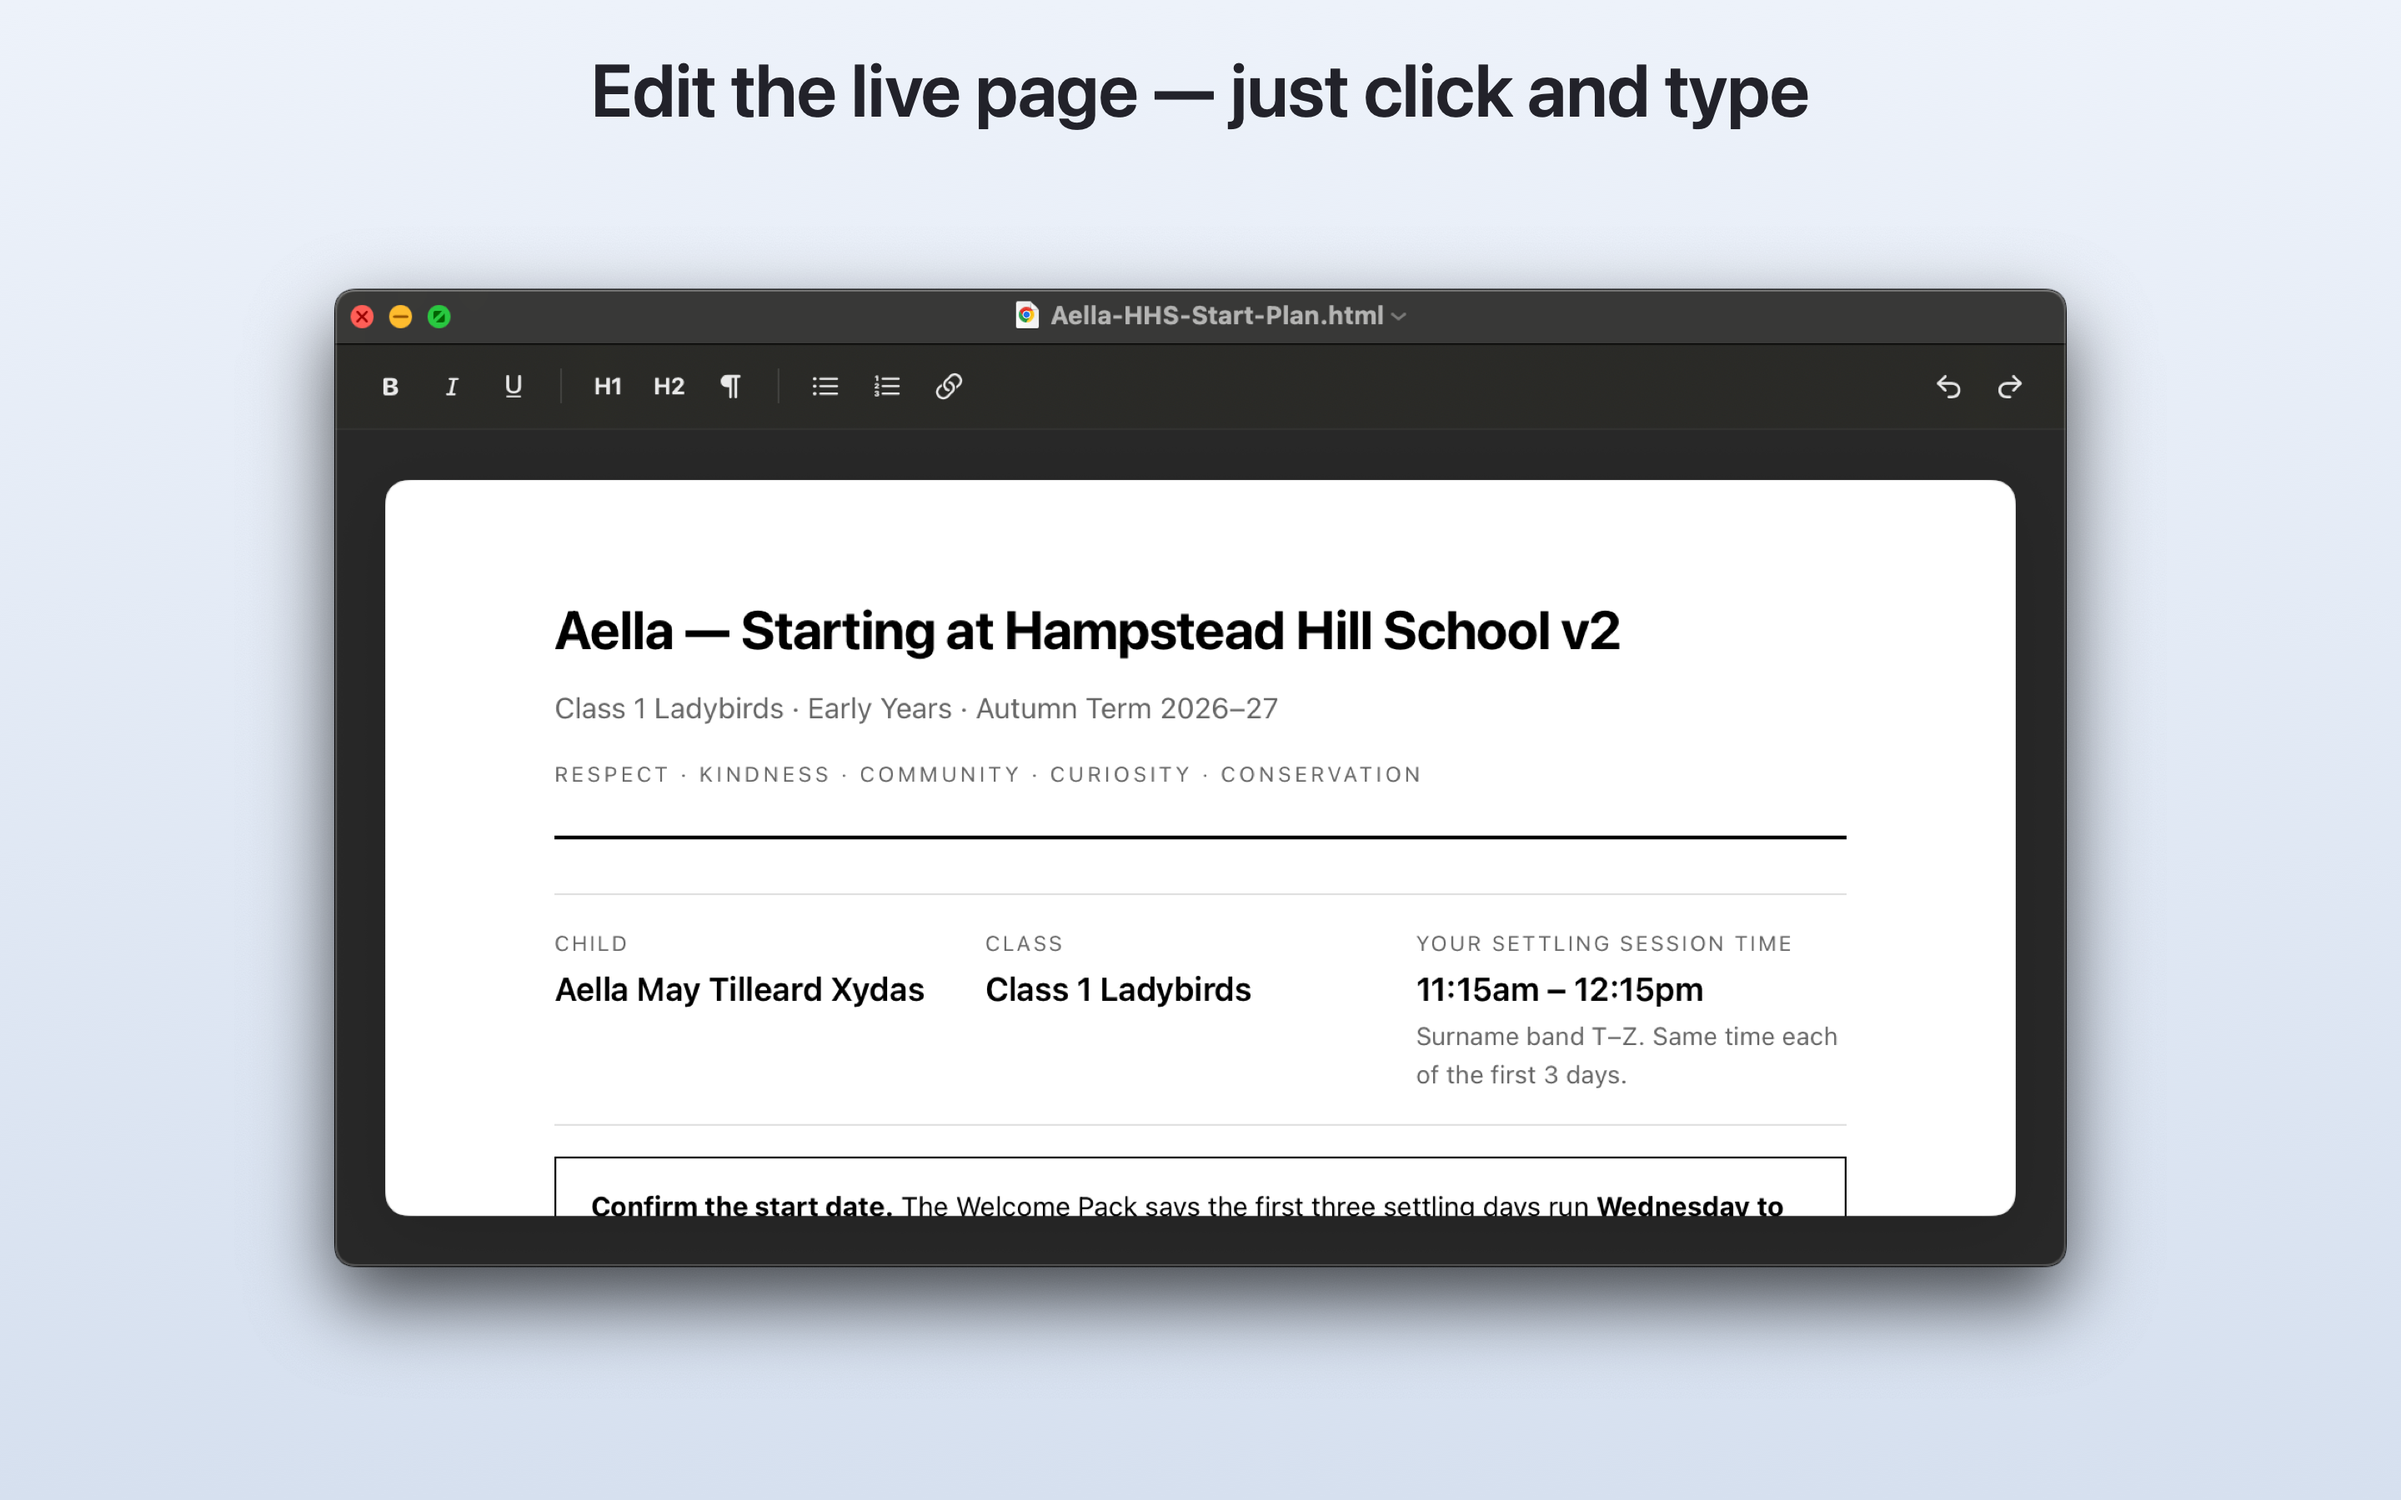
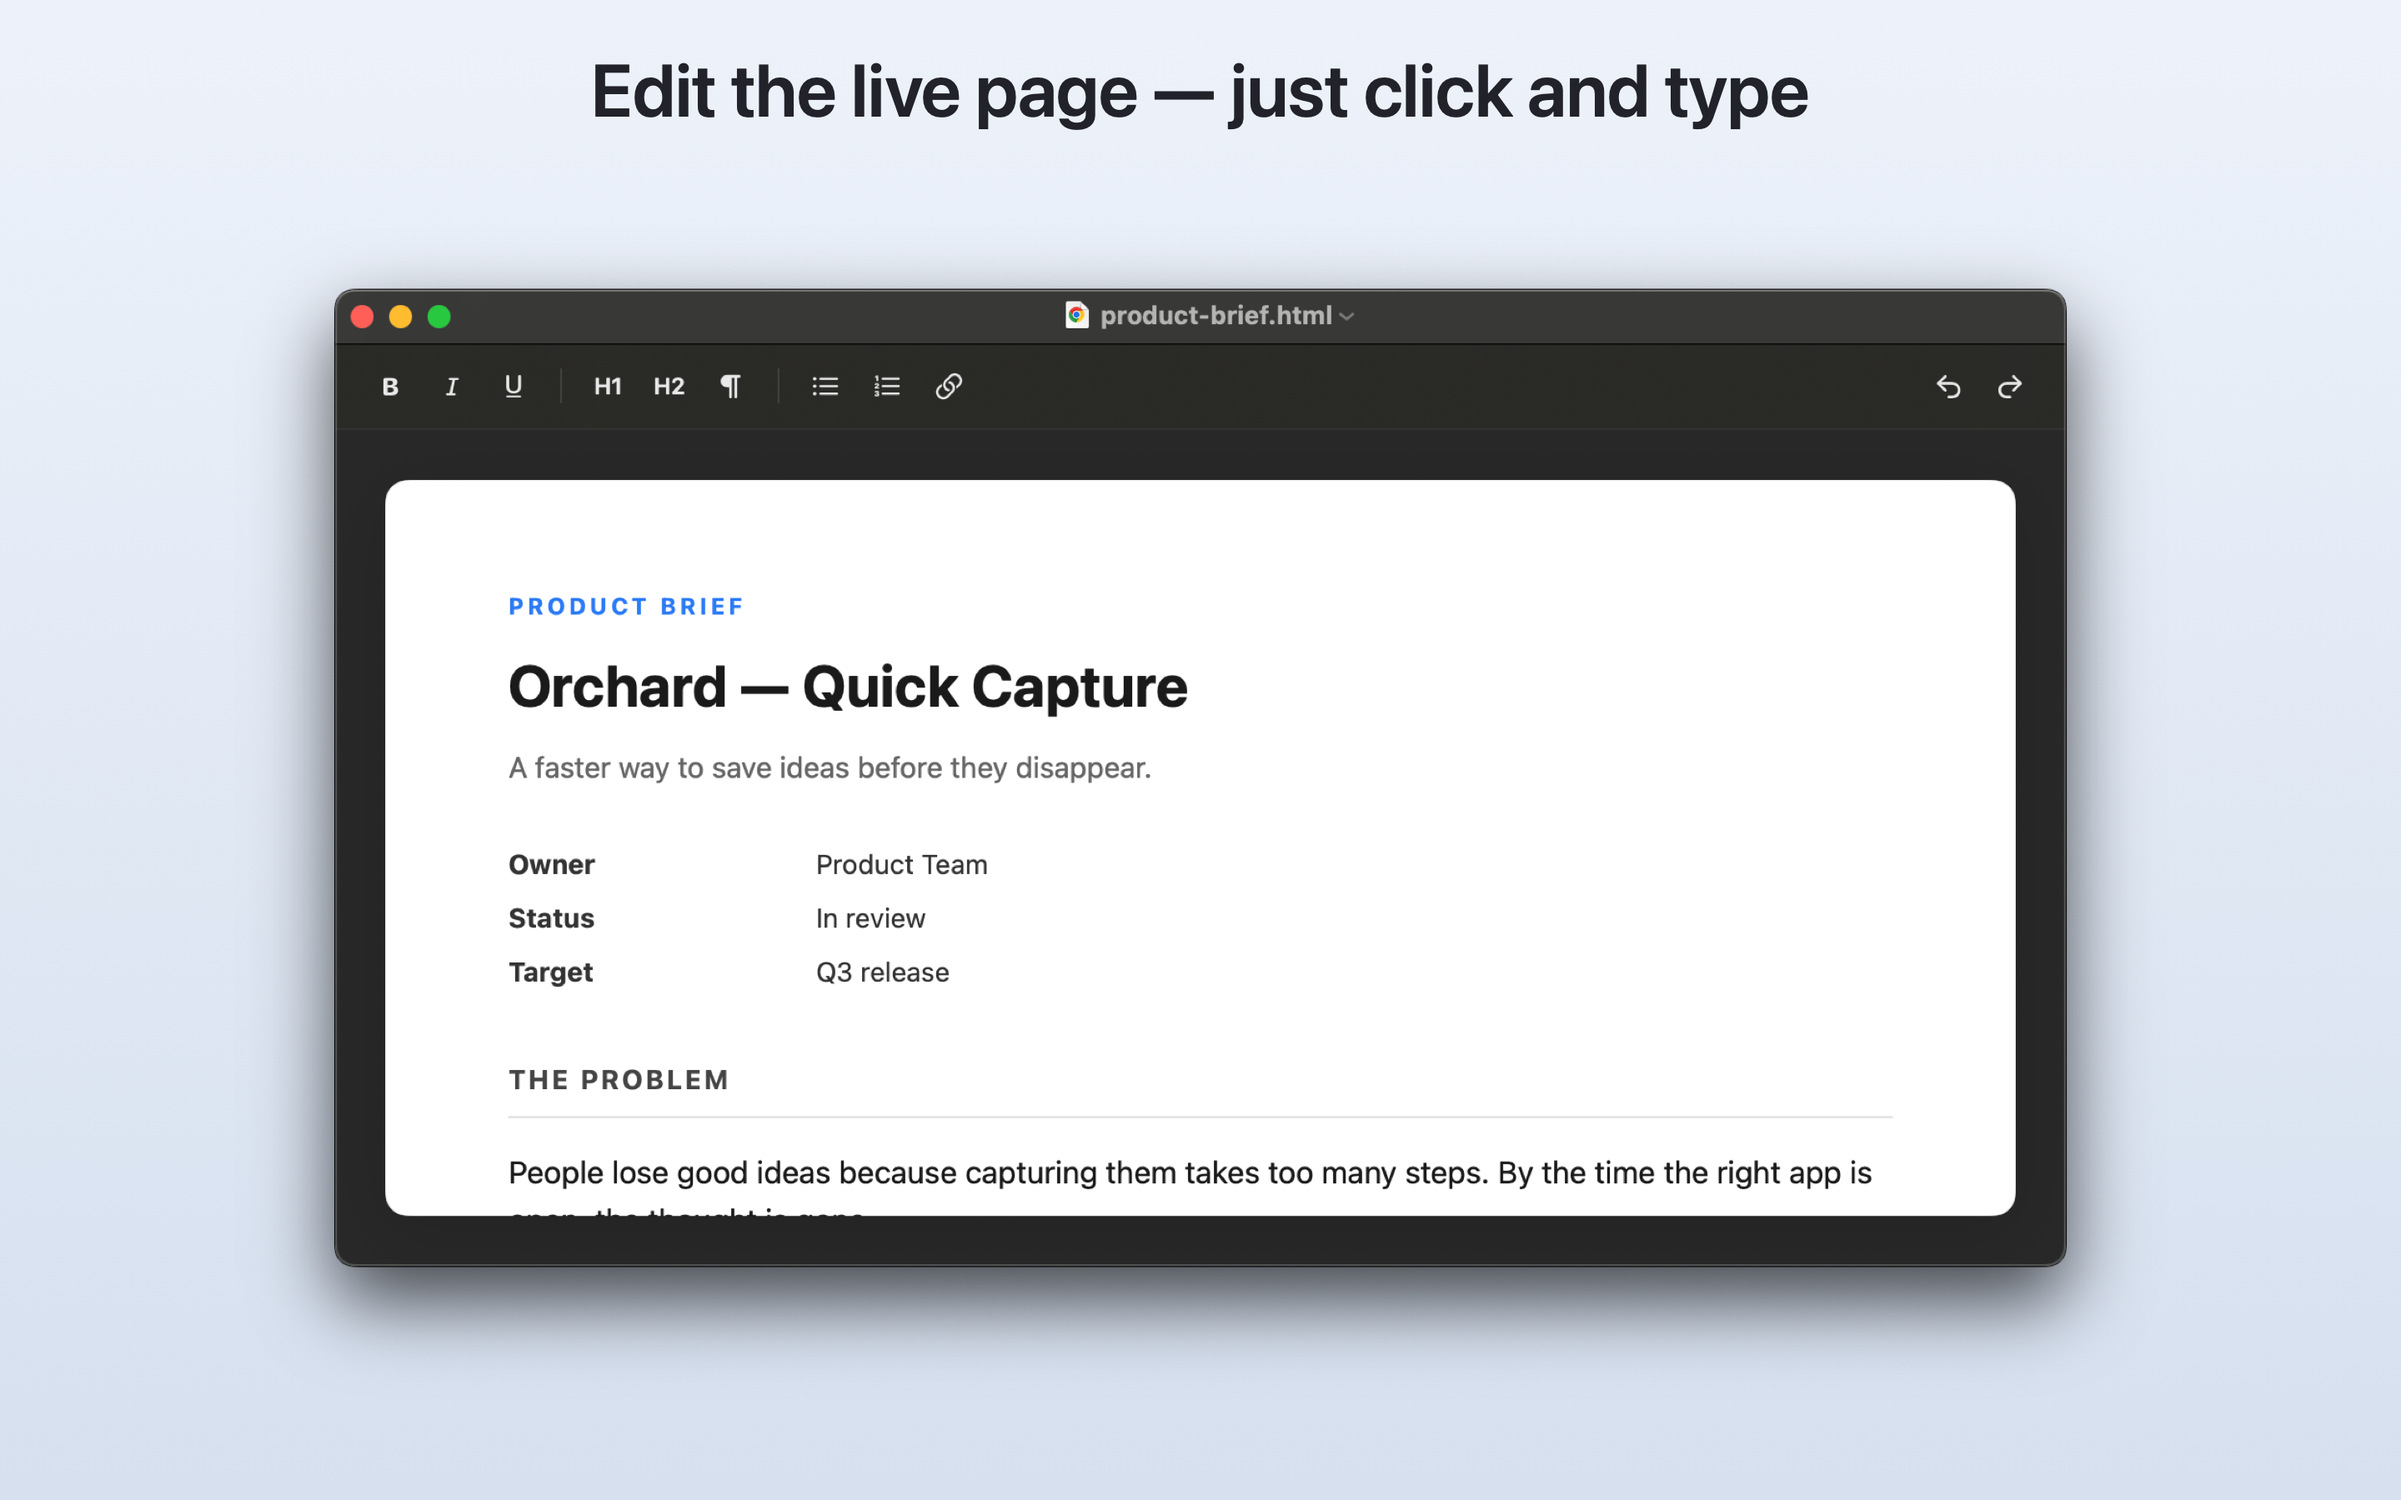
Add docs, license, landing page, and welcome screen
- Welcome screen on launch (open-file CTA) instead of system open dialog
- README, MIT license, .gitignore
- htmledit.io landing page + privacy policy (site/)

Changed region(s): [[0.1875, 0.3733, 0.75, 0.6844], [0.2188, 0.6222, 0.7812, 0.8089], [0.4062, 0.1867, 0.5938, 0.2178]]

diff --git a/LiveEdit/LiveEditApp.swift b/LiveEdit/LiveEditApp.swift
@@ -1,10 +1,103 @@
 import SwiftUI
+import AppKit
 
 @main
 struct LiveEditApp: App {
+    @NSApplicationDelegateAdaptor(AppDelegate.self) private var appDelegate
+
     var body: some Scene {
+        // Shown on launch: a calm welcome screen instead of the system open dialog.
+        Window("htmlEdit", id: "welcome") {
+            WelcomeView()
+        }
+        .windowResizability(.contentSize)
+        .windowStyle(.hiddenTitleBar)
+
+        // Document windows appear once a file is opened.
         DocumentGroup(newDocument: HTMLDocument()) { file in
             ContentView(document: file.$document)
         }
+    }
+}
+
+/// Stops the app from auto-creating an untitled document / open panel at launch,
+/// so the welcome window is the first thing the user sees.
+final class AppDelegate: NSObject, NSApplicationDelegate {
+    func applicationShouldOpenUntitledFile(_ sender: NSApplication) -> Bool { false }
+}
+
+// MARK: - Welcome screen
+
+struct WelcomeView: View {
+    var body: some View {
+        VStack(spacing: 26) {
+            Spacer(minLength: 0)
+
+            // Pilcrow mark in a soft, wireframe card.
+            Text("¶")
+                .font(.system(size: 40, weight: .regular, design: .serif))
+                .foregroundStyle(.primary.opacity(0.82))
+                .frame(width: 84, height: 84)
+                .background(
+                    RoundedRectangle(cornerRadius: 18, style: .continuous)
+                        .fill(Color.white)
+                        .shadow(color: .black.opacity(0.12), radius: 16, x: 0, y: 8)
+                )
+                .overlay(
+                    RoundedRectangle(cornerRadius: 18, style: .continuous)
+                        .stroke(Color.black.opacity(0.07), lineWidth: 1)
+                )
+
+            VStack(spacing: 6) {
+                Text("htmlEdit")
+                    .font(.system(size: 22, weight: .semibold))
+                Text("Edit HTML like a document.")
+                    .font(.system(size: 13.5))
+                    .foregroundStyle(.secondary)
+            }
+
+            OpenButton(action: openFile)
+                .padding(.top, 2)
+
+            Spacer(minLength: 0)
+        }
+        .frame(width: 440, height: 380)
+        .background(Color(red: 0.96, green: 0.96, blue: 0.95))
+        .preferredColorScheme(.light)
+    }
+
+    private func openFile() {
+        NSDocumentController.shared.openDocument(nil)
+    }
+}
+
+/// A flat, hairline-bordered button with a soft shadow and gentle hover lift.
+private struct OpenButton: View {
+    var action: () -> Void
+    @State private var hovering = false
+
+    var body: some View {
+        Button(action: action) {
+            Text("Open an HTML file")
+                .font(.system(size: 14, weight: .medium))
+                .foregroundStyle(.primary)
+                .padding(.horizontal, 22)
+                .padding(.vertical, 12)
+                .background(
+                    RoundedRectangle(cornerRadius: 11, style: .continuous)
+                        .fill(Color.white)
+                        .shadow(color: .black.opacity(hovering ? 0.16 : 0.10),
+                                radius: hovering ? 14 : 9, x: 0, y: hovering ? 7 : 4)
+                )
+                .overlay(
+                    RoundedRectangle(cornerRadius: 11, style: .continuous)
+                        .stroke(Color.black.opacity(0.09), lineWidth: 1)
+                )
+                .contentShape(Rectangle())
+        }
+        .buttonStyle(.plain)
+        .keyboardShortcut(.defaultAction)
+        .onHover { hovering = $0 }
+        .animation(.easeOut(duration: 0.14), value: hovering)
     }
 }

diff --git a/site/index.html b/site/index.html
@@ -1,0 +1,52 @@
+<!DOCTYPE html>
+<html lang="en">
+<head>
+<meta charset="UTF-8">
+<meta name="viewport" content="width=device-width, initial-scale=1.0">
+<title>htmlEdit — Edit HTML like a document</title>
+<style>
+  :root{ color-scheme: light; }
+  *{box-sizing:border-box;}
+  body{font-family:-apple-system,BlinkMacSystemFont,"Segoe UI",Helvetica,Arial,sans-serif;
+       color:#1a1a1a; background:#f5f5f3; margin:0; min-height:100vh;
+       display:flex; align-items:center; justify-content:center; padding:24px;}
+  .card{text-align:center; max-width:460px;}
+  .mark{width:96px; height:96px; margin:0 auto 28px; background:#fff;
+        border:1px solid rgba(0,0,0,.07); border-radius:22px;
+        box-shadow:0 10px 28px rgba(0,0,0,.12);
+        display:flex; align-items:center; justify-content:center;
+        font-family:Georgia,"Times New Roman",serif; font-size:46px; color:#222;}
+  h1{font-size:32px; margin:0 0 10px;}
+  .sub{color:#5a5a5a; font-size:17px; line-height:1.5; margin:0 0 34px;}
+  .cta{display:inline-block; text-decoration:none; color:#1a1a1a;
+       background:#fff; border:1px solid rgba(0,0,0,.09); border-radius:13px;
+       padding:15px 26px; font-size:15px; font-weight:600;
+       box-shadow:0 8px 20px rgba(0,0,0,.10); transition:box-shadow .15s, transform .15s;}
+  .cta:hover{box-shadow:0 12px 28px rgba(0,0,0,.16); transform:translateY(-1px);}
+  .cta .small{display:block; font-size:11px; font-weight:500; color:#888; letter-spacing:.04em;}
+  .note{margin-top:18px; color:#999; font-size:13px;}
+  .links{margin-top:46px; font-size:14px;}
+  .links a{color:#2a7af6; text-decoration:none; margin:0 10px;}
+  .links a:hover{text-decoration:underline;}
+</style>
+</head>
+<body>
+  <div class="card">
+    <div class="mark">¶</div>
+    <h1>htmlEdit</h1>
+    <p class="sub">Edit HTML like a document. Point, click, type —<br>right on the live page. No code.</p>
+
+    <!-- Once live, replace href with the Mac App Store URL and delete the .note line. -->
+    <a class="cta" href="#">
+      <span class="small">DOWNLOAD ON THE</span>
+      Mac App Store
+    </a>
+    <div class="note">Coming soon to the Mac App Store.</div>
+
+    <div class="links">
+      <a href="/privacy">Privacy</a>
+      <a href="mailto:robtilleard@gmail.com">Contact</a>
+    </div>
+  </div>
+</body>
+</html>

diff --git a/site/privacy.html b/site/privacy.html
@@ -1,0 +1,42 @@
+<!DOCTYPE html>
+<html lang="en">
+<head>
+<meta charset="UTF-8">
+<meta name="viewport" content="width=device-width, initial-scale=1.0">
+<title>htmlEdit — Privacy Policy</title>
+<style>
+  body{font-family:-apple-system,BlinkMacSystemFont,"Segoe UI",Helvetica,Arial,sans-serif;
+       color:#1a1a1a; line-height:1.6; max-width:680px; margin:48px auto; padding:0 24px;}
+  h1{font-size:28px; margin-bottom:4px;}
+  .updated{color:#666; font-size:14px; margin-bottom:32px;}
+  h2{font-size:18px; margin-top:32px;}
+  a{color:#2a7af6;}
+  .back{display:inline-block; margin-top:40px; font-size:14px;}
+</style>
+</head>
+<body>
+  <h1>Privacy Policy</h1>
+  <div class="updated">htmlEdit — last updated 26 June 2026</div>
+
+  <p>htmlEdit is designed to be completely private. It does not collect, store,
+  transmit or share any of your data.</p>
+
+  <h2>What we collect</h2>
+  <p>Nothing. htmlEdit has no accounts, no analytics, no tracking and no
+  advertising. We do not see anything you do in the app.</p>
+
+  <h2>Your files</h2>
+  <p>The HTML files you open and edit stay on your Mac. htmlEdit only reads and
+  writes the files you explicitly choose to open or save. Nothing is uploaded
+  anywhere.</p>
+
+  <h2>Network access</h2>
+  <p>htmlEdit does not connect to the internet to send or receive your content.</p>
+
+  <h2>Contact</h2>
+  <p>Questions about this policy? Email
+  <a href="mailto:robtilleard@gmail.com">robtilleard@gmail.com</a>.</p>
+
+  <a class="back" href="/">← Back to htmlEdit</a>
+</body>
+</html>

diff --git a/README.md b/README.md
@@ -1,0 +1,38 @@
+# htmlEdit
+
+A simple, minimal Mac app for editing HTML files **visually** — point, click, and type directly on the live rendered page. No code, no markup. It feels like editing a Word document, but the file you save is your original HTML.
+
+Built for editing AI-generated HTML docs (briefs, notes, memos, recipes) without having to re-prompt or touch the source.
+
+## Features
+
+- **Edit the live page** — WYSIWYG editing of the rendered HTML, not the raw source
+- **Light formatting toolbar** — bold, italic, underline, headings, lists, links, undo/redo
+- **Opens and saves real `.html` files** — your markup and doctype are preserved
+- **Completely private** — no accounts, no analytics, no network access; files never leave your Mac
+- **Minimal, wireframe-style design** with soft shadows
+
+## Build
+
+Requires Xcode 15+ on macOS.
+
+```bash
+open LiveEdit.xcodeproj
+```
+
+Then build and run the `htmlEdit` scheme (⌘R).
+
+## Project layout
+
+| Path | What it is |
+|------|------------|
+| `LiveEdit/` | App source (SwiftUI + WKWebView) |
+| `LiveEdit/WebView.swift` | The editable web view (`designMode` + doctype-preserving save) |
+| `LiveEdit/ContentView.swift` | Editor UI and formatting toolbar |
+| `LiveEdit/LiveEditApp.swift` | App entry point and welcome screen |
+| `site/` | Landing page (htmledit.io) |
+| `store-assets/` | App Store listing copy, privacy policy, sample docs, screenshots |
+
+## License
+
+MIT — see [LICENSE](LICENSE).
